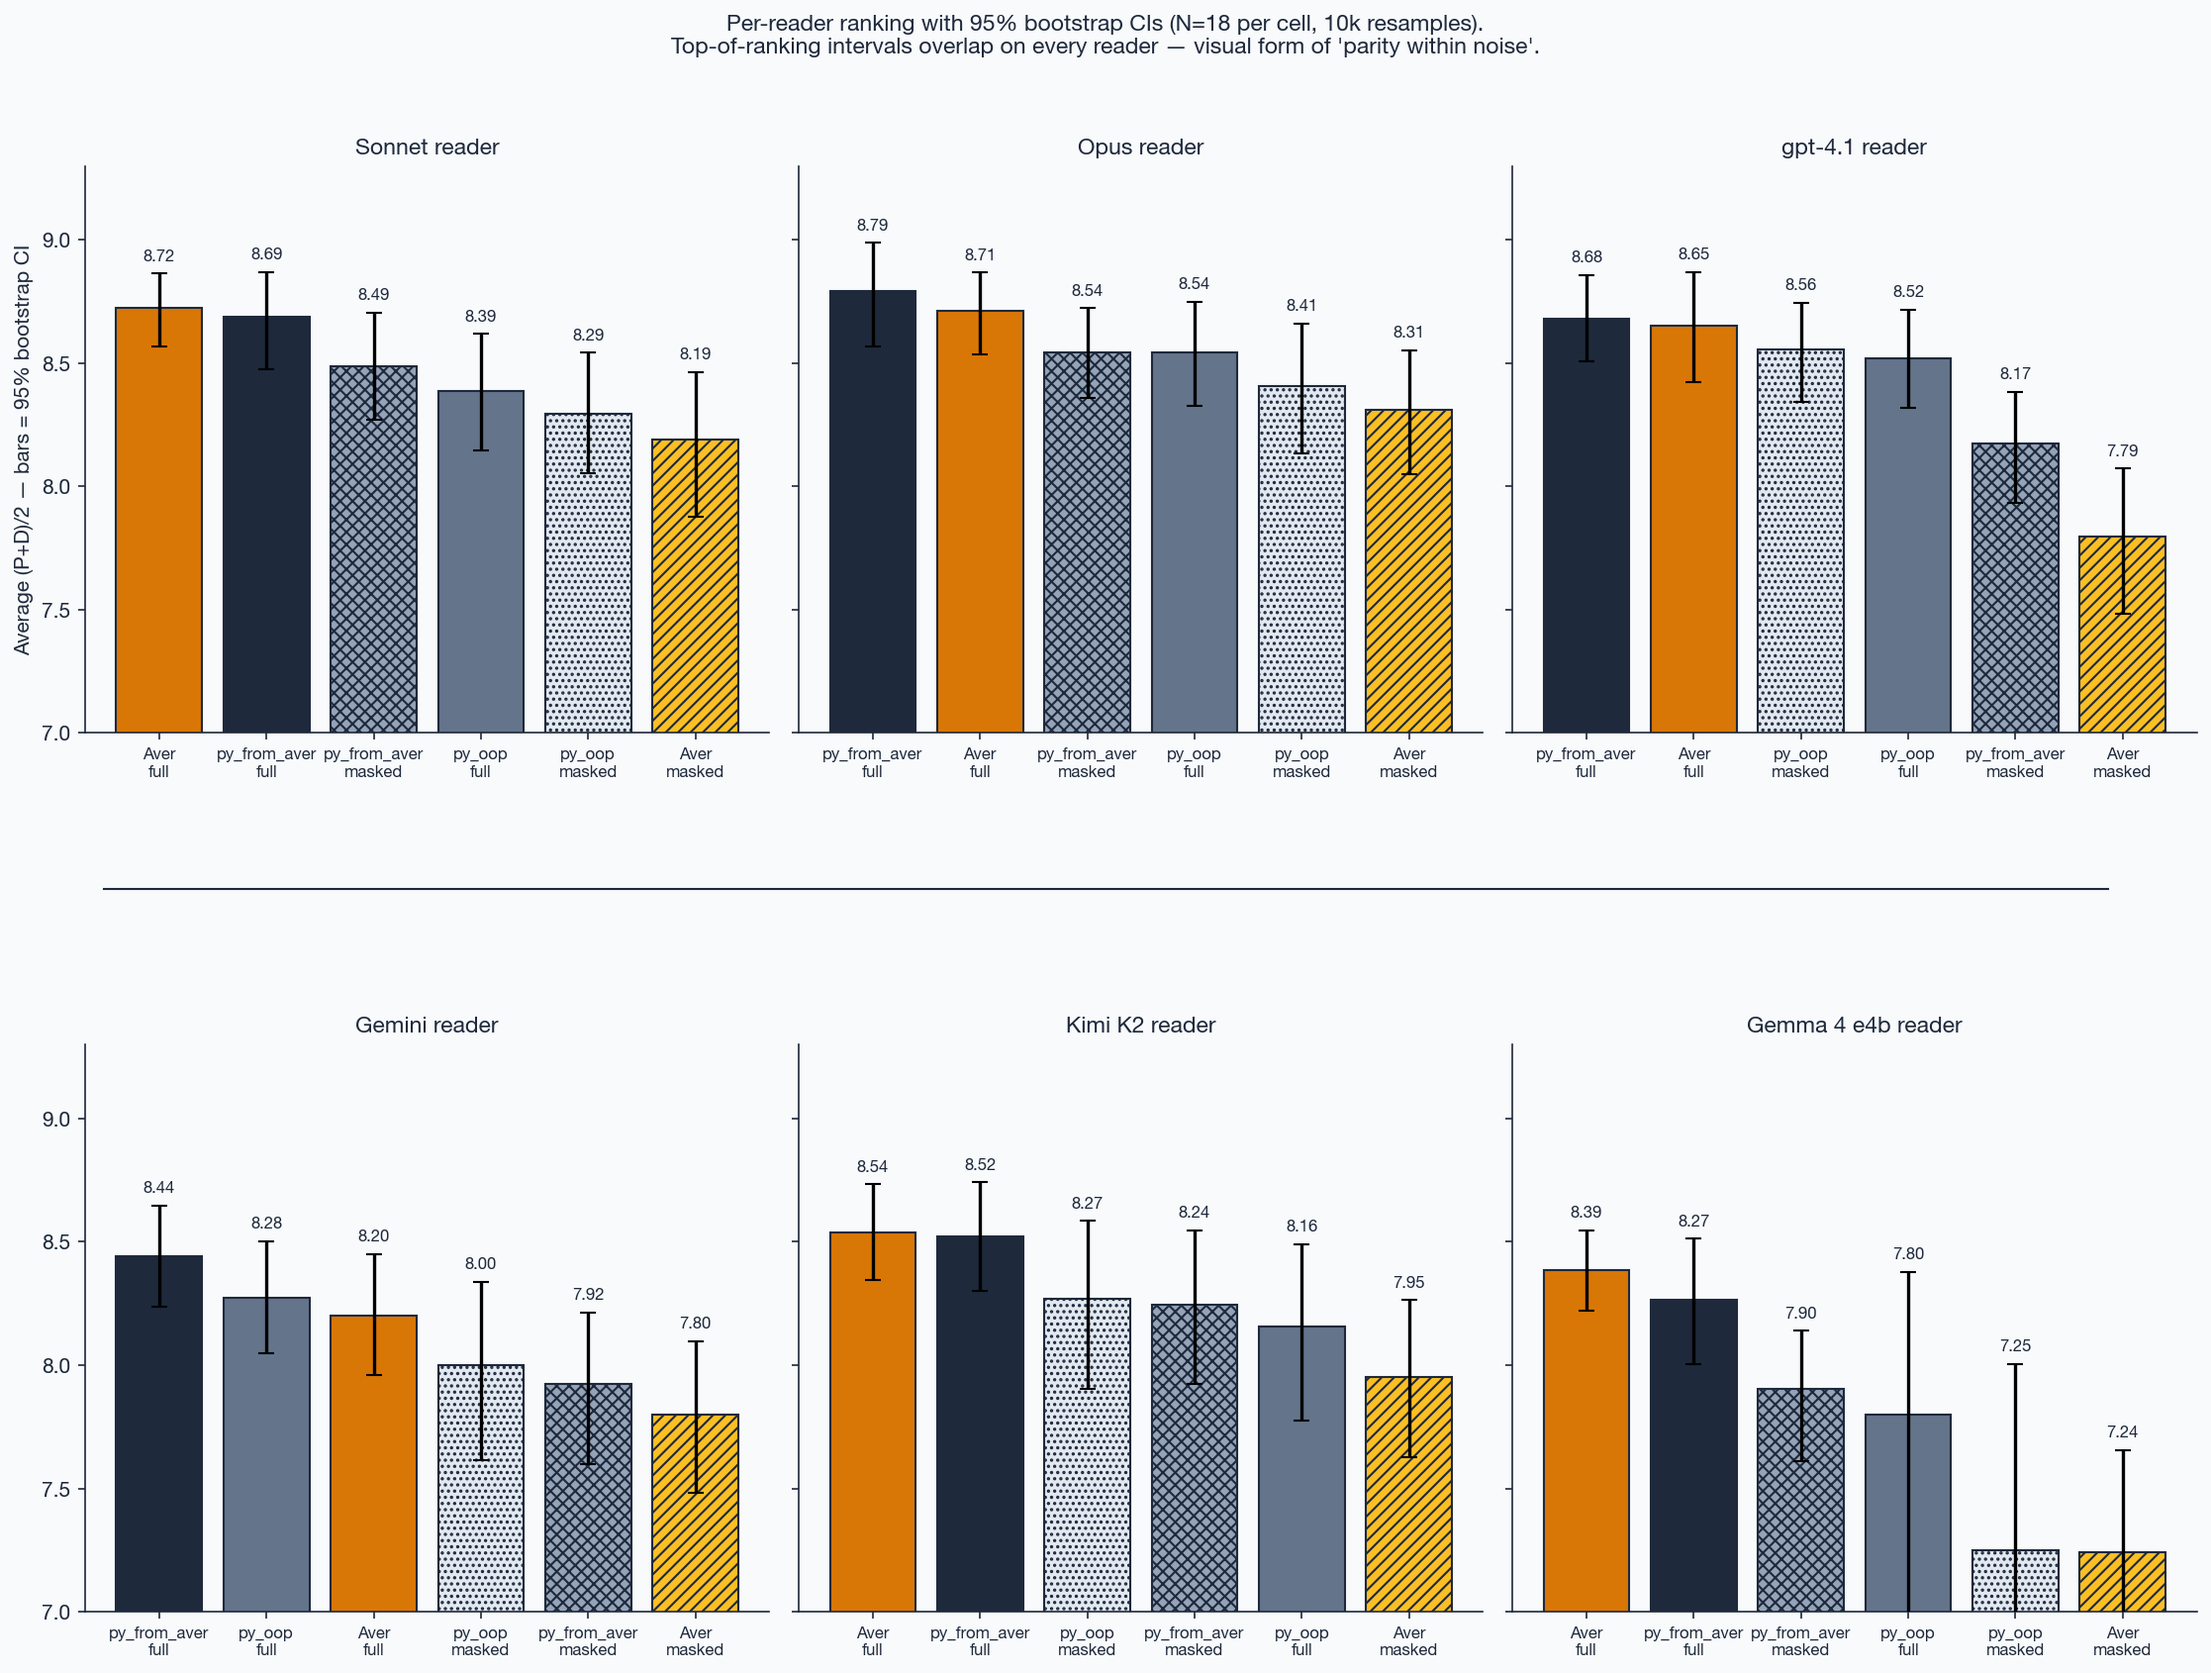
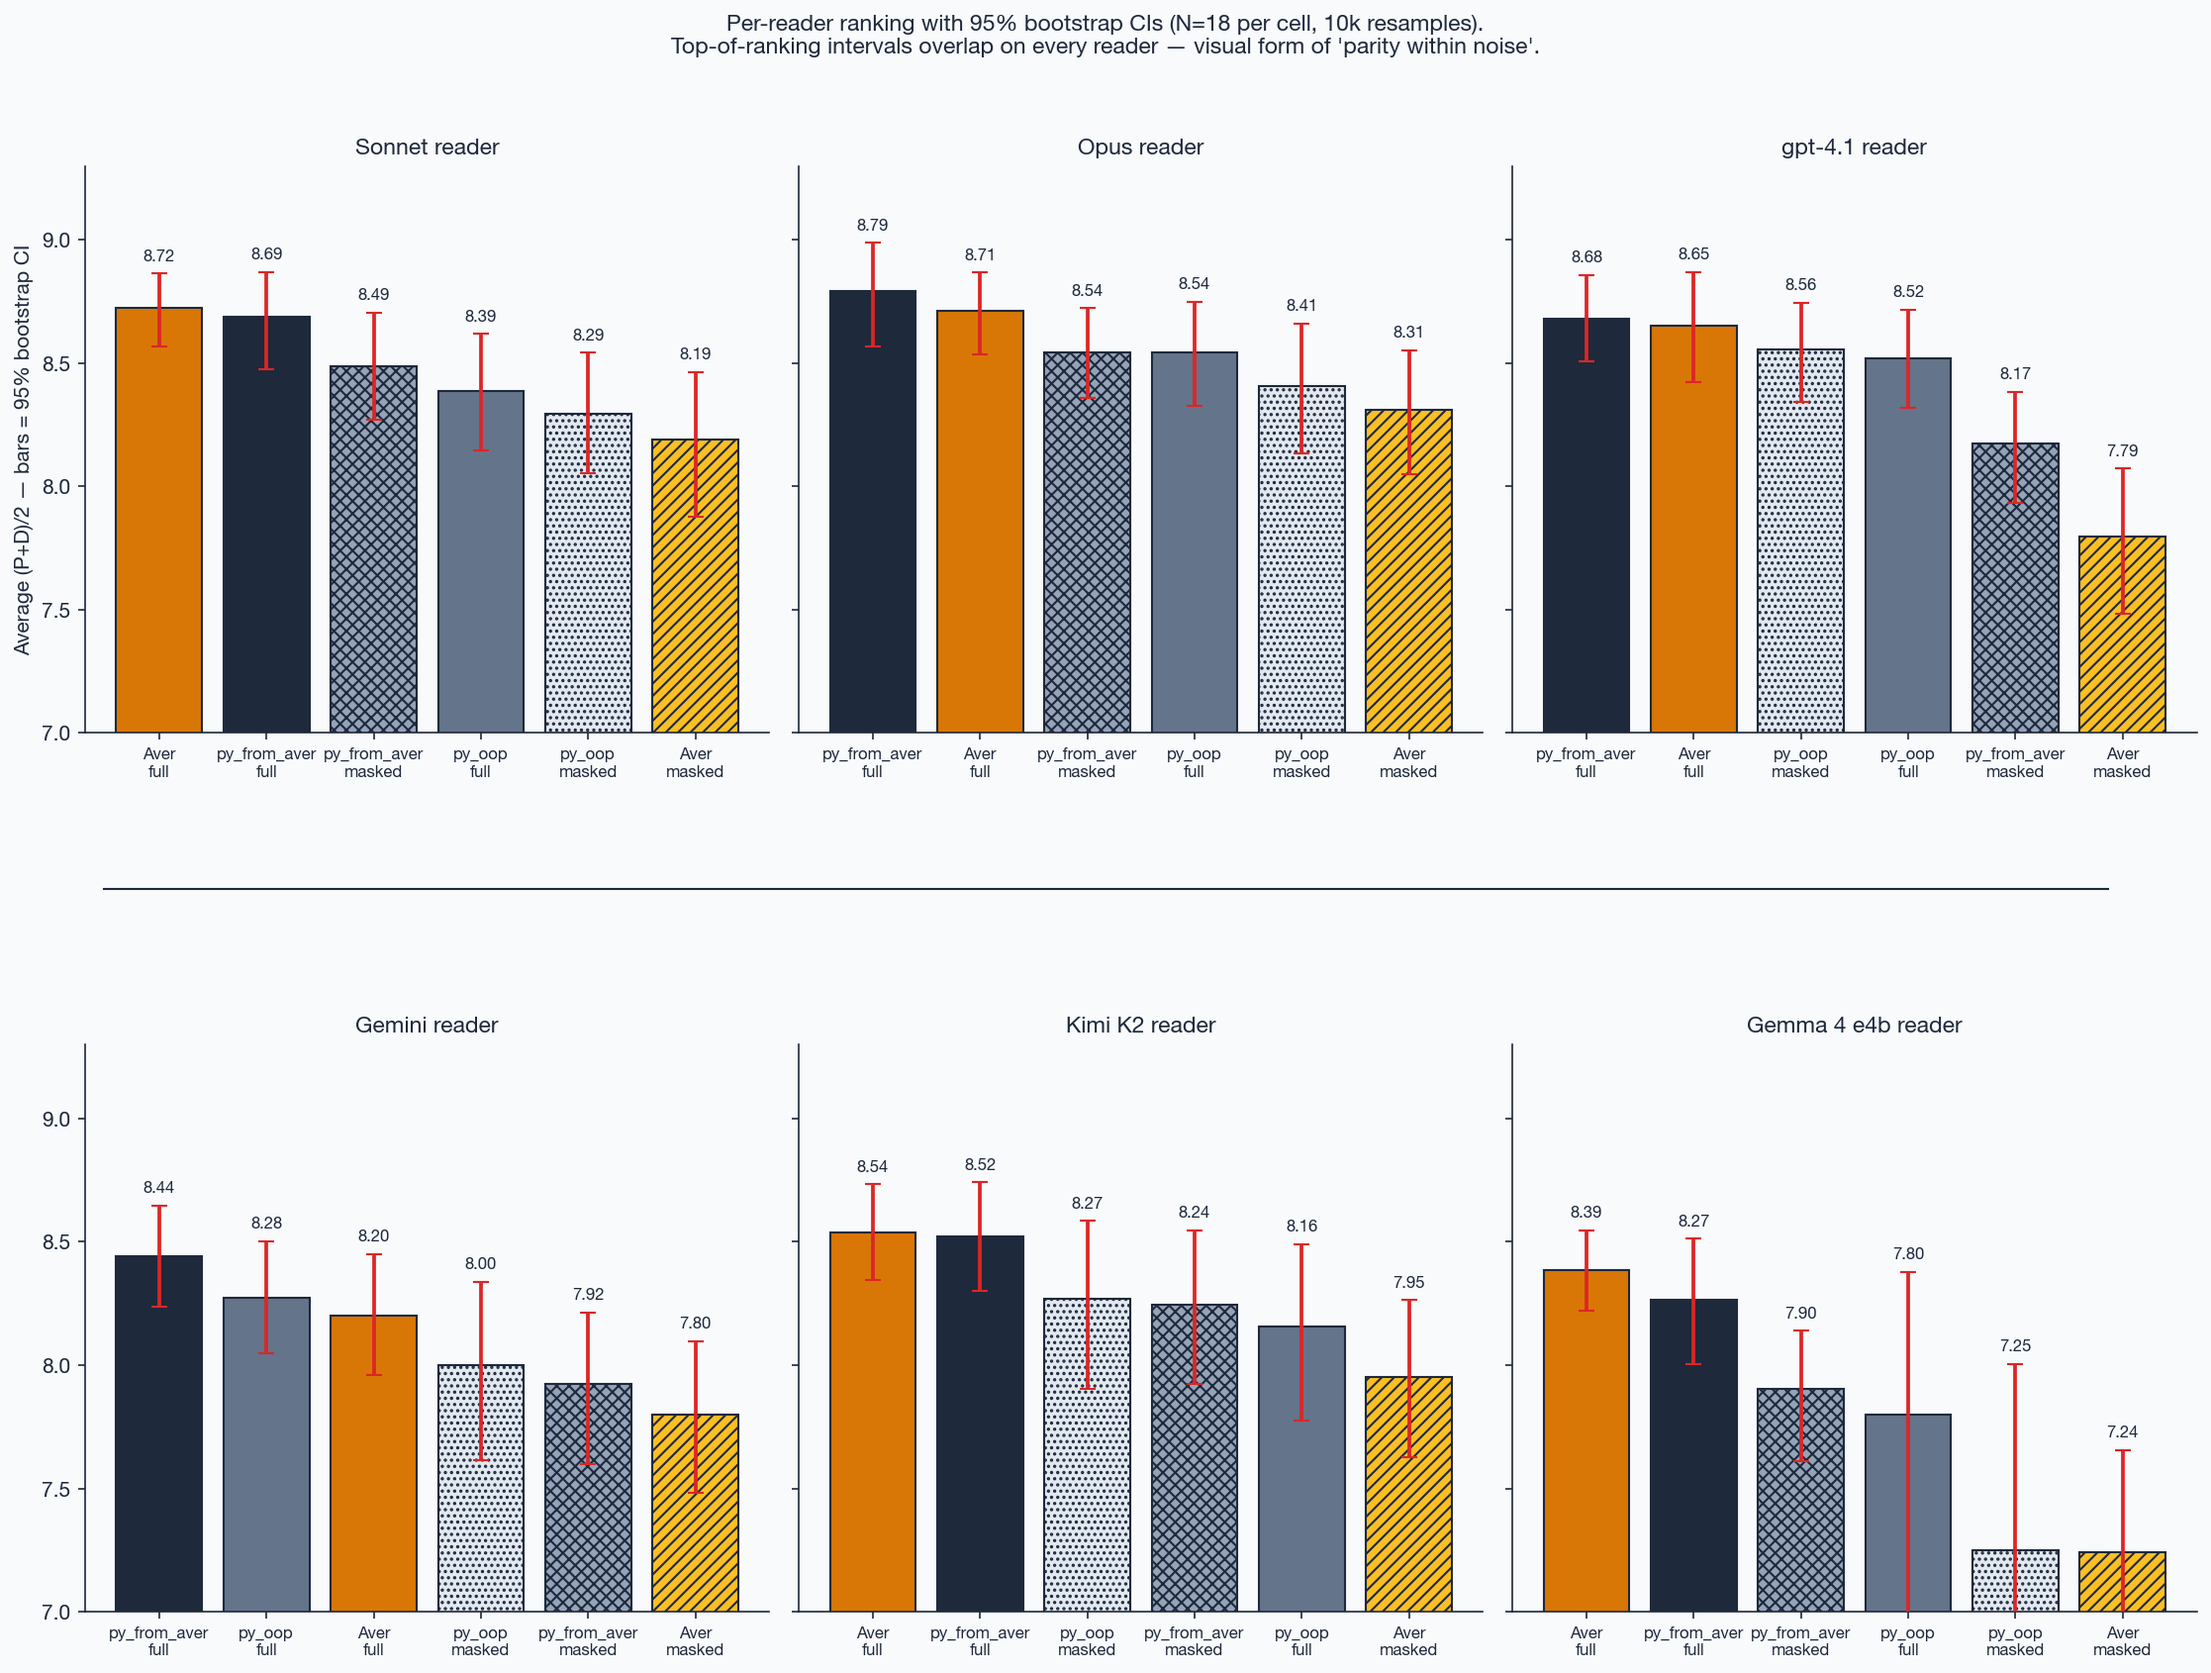
Highlight Aver = brand-new language (zero training exposure) in README + red error bars
README:
- New key-context callout box at the top, ABOVE TL;DR, explicitly
  stating Aver is a brand-new unreleased language with essentially
  zero LLM training exposure (no training corpora, tutorials, Stack
  Overflow, GitHub history). This context frames the whole benchmark:
  we're measuring legibility WITHOUT training advantage.
- TL;DR trimmed — no longer repeats 'zero training exposure' since
  the callout handles it.

Plot:
- Error bars switched from black (invisible on slate/dark navy bars)
  to red #dc2626 — high-contrast on amber, slate, slate-light, and
  all shades used by the six readers.

diff --git a/scripts/plot_judge_bias.py b/scripts/plot_judge_bias.py
@@ -611,8 +611,8 @@ def ranking_all_readers_ci(out_path: Path) -> None:
 
         x_pos = np.arange(len(items))
         bars = ax.bar(x_pos, values, color=colors, edgecolor=SLATE, linewidth=1.0,
-                      yerr=[err_lo, err_hi], ecolor="#000000", capsize=4,
-                      error_kw={"linewidth": 1.6, "zorder": 10})
+                      yerr=[err_lo, err_hi], ecolor="#dc2626", capsize=4,
+                      error_kw={"linewidth": 1.8, "zorder": 10})
         for bar, h in zip(bars, hatches):
             bar.set_hatch(h)
         for bar, v, ehi in zip(bars, values, err_hi):

diff --git a/README.md b/README.md
@@ -2,7 +2,9 @@
 
 **An empirical benchmark for how much change-level author intent survives a code diff — measured with an LLM reviewer.**
 
-> **TL;DR:** Empirical benchmark of how much change-level author intent an LLM reviewer can reconstruct from a unified diff. 6 non-thinking reader LLMs across 5 model sources (Anthropic / OpenAI / Google / Moonshot / Google-OSS Gemma local) × 6 cross-vendor judges × 18 refactor prompts × 4 programs × 3 language variants (Aver, Aver-in-Python, idiomatic Python) × 3 views (full / masked / verify-preserving), plus separate thinking-tier probes. ~13,000 judgments, 100% judge coverage verified. Tests whether Aver — a new language with essentially zero LLM training exposure — is legible to an AI reviewer relative to Python carrying the same intent structure.
+> ⚠ **Key context: [Aver](https://averlang.dev) is a brand-new, unreleased programming language — LLMs have essentially zero training exposure to it.** No Aver code in training corpora, no tutorials, no Stack Overflow posts, no GitHub stars. This benchmark asks whether a new language's structural intent declarations (`intent`, `decision`, `?`, `verify`) are legible to an AI reviewer *without any training advantage* — compared against Python variants carrying the same intent structure.
+>
+> **TL;DR:** Empirical benchmark of how much change-level author intent an LLM reviewer can reconstruct from a unified diff. 6 non-thinking reader LLMs across 5 model sources (Anthropic / OpenAI / Google / Moonshot / Google-OSS Gemma local) × 6 cross-vendor judges × 18 refactor prompts × 4 programs × 3 language variants (Aver, Aver-in-Python, idiomatic Python) × 3 views (full / masked / verify-preserving), plus separate thinking-tier probes. ~13,000 judgments, 100% judge coverage verified.
 
 ![ranking — 5 non-thinking readers](results/plots/ranking_all_readers_ci.png)
 
